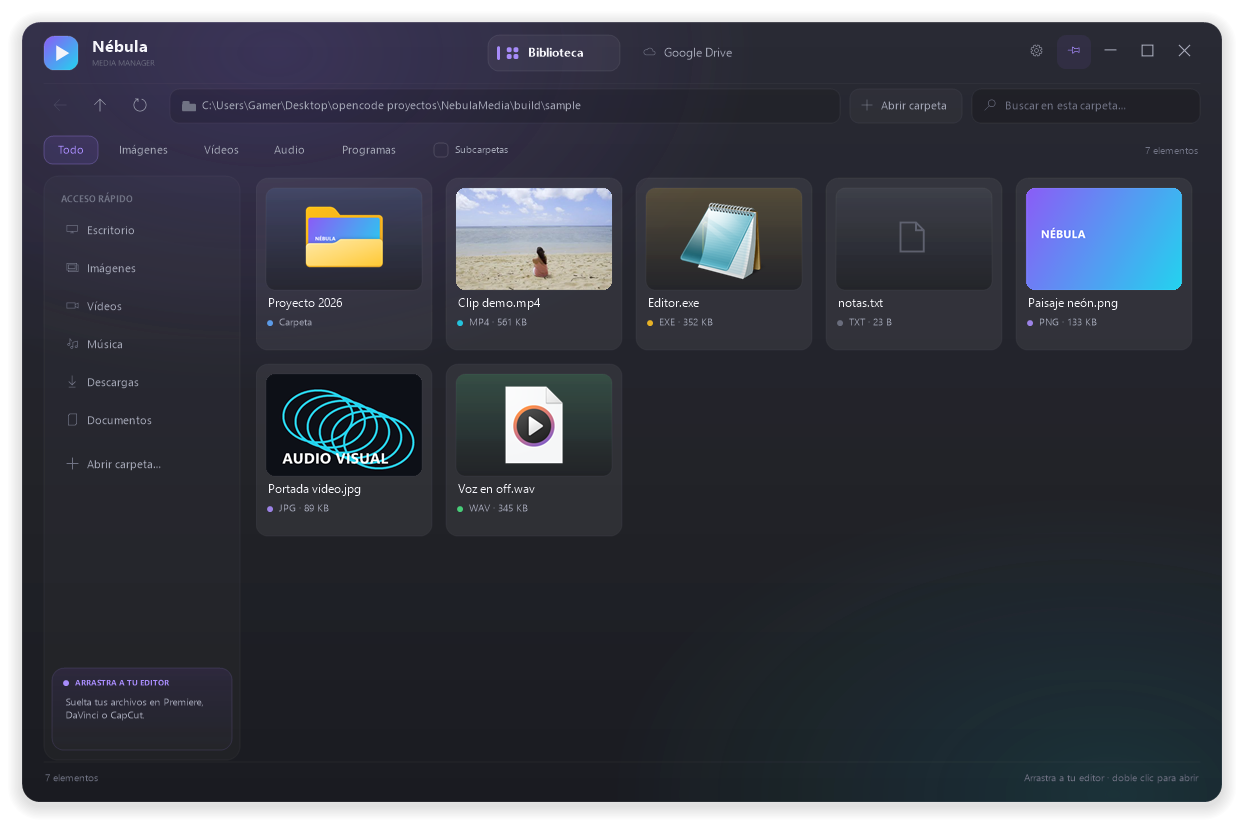
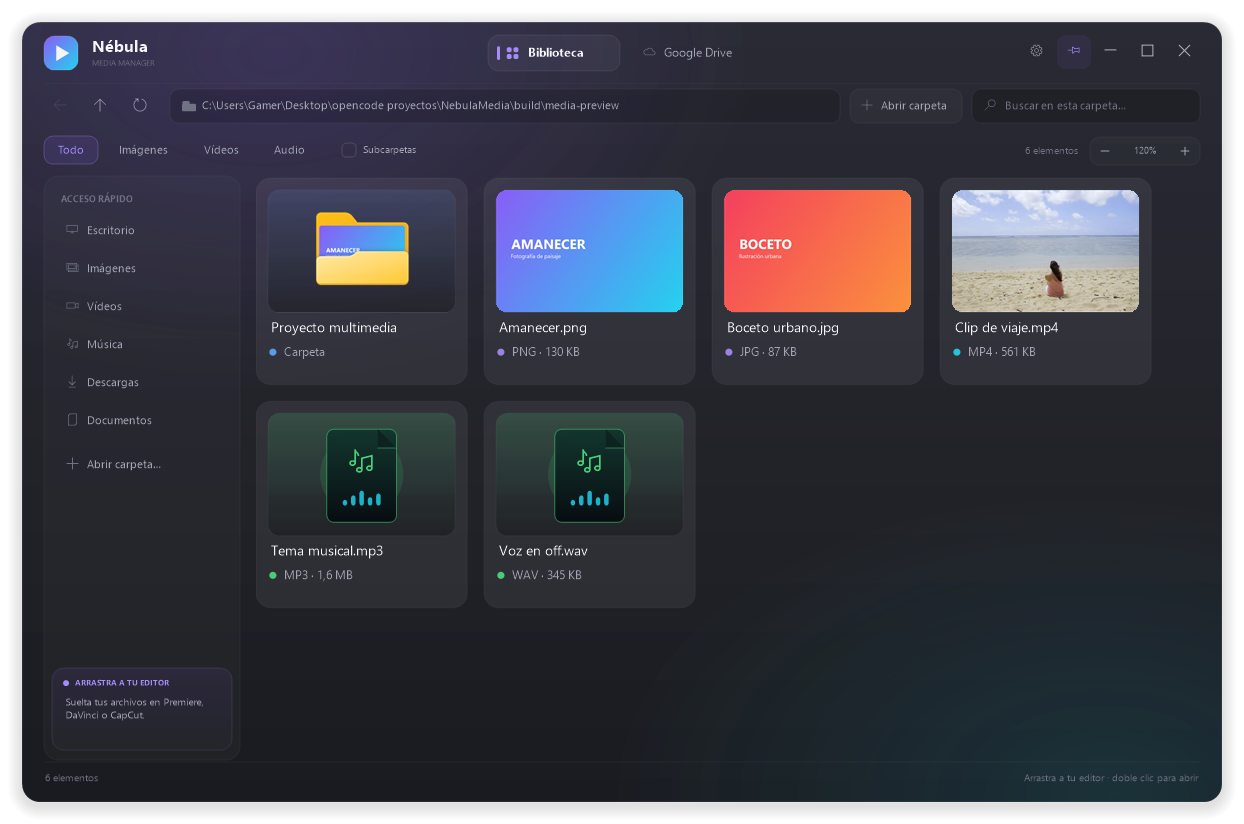
Biblioteca solo con audio, imagen y video

diff --git a/src/app.cpp b/src/app.cpp
@@ -12,7 +12,7 @@ namespace nebula {
 
 namespace {
 
-constexpr int kFilterCount = 5;
+constexpr int kFilterCount = 4;
 constexpr int kMenuItemOpen = 40001;
 
 constexpr int kMenuItemReveal = 40002;
@@ -24,7 +24,7 @@ constexpr int kMenuItemRefresh = 40007;
 constexpr int kMenuItemEditAudio = 40008;
 constexpr int kMenuItemPlay = 40009;
 
-constexpr int kFilterWidths[kFilterCount] = {54, 80, 64, 60, 86};
+constexpr int kFilterWidths[kFilterCount] = {54, 80, 64, 60};
 
 bool InRect(const Gdiplus::RectF& r, float x, float y) {
     return x >= r.X && y >= r.Y && x < r.GetRight() && y < r.GetBottom();
@@ -81,7 +81,6 @@ bool MatchesItem(const MediaItem& item, Filter filter, const std::wstring& query
         case Filter::Images: return item.kind == ItemKind::Image;
         case Filter::Videos: return item.kind == ItemKind::Video;
         case Filter::Audio: return item.kind == ItemKind::Audio;
-        case Filter::Programs: return item.kind == ItemKind::Program;
         case Filter::All:
         default: return true;
     }
@@ -776,6 +775,7 @@ void App::ScanFolder(ViewState& view) {
         item.size = (static_cast<uint64_t>(data.nFileSizeHigh) << 32) | data.nFileSizeLow;
         item.ext = item.isDir ? L"" : ExtensionOf(item.name);
         item.kind = KindForFile(item.name, item.isDir);
+        if (!item.isDir && item.kind == ItemKind::Other) continue;
         item.cloudOnly = !item.isDir && IsCloudPlaceholder(data.dwFileAttributes);
         view.items.push_back(std::move(item));
 
@@ -852,12 +852,16 @@ void App::RunDeepSearch(ViewState& view) {
                             data.nFileSizeLow;
                 item.ext = isDir ? L"" : ExtensionOf(name);
                 item.kind = KindForFile(name, isDir);
-                item.cloudOnly = !isDir && IsCloudPlaceholder(data.dwFileAttributes);
-                item.context = RelativeTo(dir, view.path);
-                results.push_back(std::move(item));
-                if (static_cast<int>(results.size()) >= maxResults) {
-                    limited = true;
-                    break;
+                if (!isDir && item.kind == ItemKind::Other) {
+                    // Ignore executables, games, documents and unknown files.
+                } else {
+                    item.cloudOnly = !isDir && IsCloudPlaceholder(data.dwFileAttributes);
+                    item.context = RelativeTo(dir, view.path);
+                    results.push_back(std::move(item));
+                    if (static_cast<int>(results.size()) >= maxResults) {
+                        limited = true;
+                        break;
+                    }
                 }
             }
 
@@ -1934,8 +1938,7 @@ void App::OnClickZone(int id) {
         case zid::FilterAll:
         case zid::FilterImages:
         case zid::FilterVideos:
-        case zid::FilterAudio:
-        case zid::FilterPrograms: {
+        case zid::FilterAudio: {
             ViewState& view = View();
             view.filter = static_cast<Filter>(id - zid::FilterAll);
             view.scroll = 0;

diff --git a/src/common.h b/src/common.h
@@ -57,7 +57,7 @@ bool LaunchSelfUpdate(const std::wstring& updatePath, std::wstring& error);
 
 // ---------------------------------------------------------------- data model
 
-enum class Filter { All = 0, Images, Videos, Audio, Programs, Count };
+enum class Filter { All = 0, Images, Videos, Audio, Count };
 enum class Tab { Library = 0, Drive = 1 };
 enum class ItemKind { Folder, Image, Video, Audio, Program, Other };
 
@@ -273,7 +273,7 @@ enum : int {
     Min, Max, Close, Pin, Settings,
     TabLibrary, TabDrive,
     Back, Up, Refresh, OpenFolder, Search, ClearSearch,
-    FilterAll, FilterImages, FilterVideos, FilterAudio, FilterPrograms,
+    FilterAll, FilterImages, FilterVideos, FilterAudio,
     Recursive,
     DriveDetect, DrivePick, DriveWeb,
     DriveChange, DriveRefresh,

diff --git a/src/util.cpp b/src/util.cpp
@@ -165,13 +165,10 @@ ItemKind KindForFile(const std::wstring& path, bool isDir) {
     static const std::unordered_set<std::wstring> audios = {
         L".mp3", L".wav", L".flac", L".aac", L".ogg", L".m4a", L".wma", L".aiff",
         L".aif", L".opus", L".mid", L".midi", L".amr", L".ape"};
-    static const std::unordered_set<std::wstring> programs = {
-        L".exe", L".lnk", L".bat", L".cmd", L".msi", L".appref-ms", L".com"};
 
     if (images.count(ext)) return ItemKind::Image;
     if (videos.count(ext)) return ItemKind::Video;
     if (audios.count(ext)) return ItemKind::Audio;
-    if (programs.count(ext)) return ItemKind::Program;
     return ItemKind::Other;
 }
 

diff --git a/src/paint.cpp b/src/paint.cpp
@@ -258,8 +258,7 @@ std::wstring RateText(int rate) {
     return buffer;
 }
 
-const wchar_t* kFilterNames[5] = {L"Todo", L"Imágenes", L"Vídeos", L"Audio",
-                                  L"Programas"};
+const wchar_t* kFilterNames[4] = {L"Todo", L"Imágenes", L"Vídeos", L"Audio"};
 
 }  // namespace
 
@@ -561,7 +560,7 @@ void App::DrawToolbar(Graphics& g, const Layout& layout) {
 
 void App::DrawFilters(Graphics& g, const Layout& layout) {
     ViewState& view = View();
-    for (int i = 0; i < 5; ++i) {
+    for (int i = 0; i < 4; ++i) {
         const int id = zid::FilterAll + i;
         const RectF* rect = ZoneRect(layout, id);
         if (!rect) continue;

diff --git a/README.md b/README.md
@@ -1,6 +1,6 @@
 # Nébula Media
 
-Gestor nativo de vídeos, imágenes, audio y programas para Windows, con buscador, pestaña de Google Drive, arrastrar y soltar hacia otros programas, ventana siempre visible con fondo translúcido, actualizaciones automáticas y un editor de audio básico.
+Gestor nativo de vídeos, imágenes y audio para Windows, con buscador, pestaña de Google Drive, arrastrar y soltar hacia otros programas, ventana siempre visible con fondo translúcido, actualizaciones automáticas y un editor de audio básico.
 
 Repositorio: <https://github.com/joseestebanmarinrincones-dot/nebula-media>
 
@@ -16,8 +16,9 @@ Repositorio: <https://github.com/joseestebanmarinrincones-dot/nebula-media>
 
 ## Características
 
-- Biblioteca con miniaturas reales (Shell thumbnail provider) para imágenes, vídeos, audio, programas y carpetas.
-- Filtros Todo / Imágenes / Vídeos / Audio / Programas.
+- Biblioteca con miniaturas reales (Shell thumbnail provider) para imágenes, vídeos, audio y carpetas.
+- Solo se detectan extensiones de audio, imagen y vídeo. Ejecutables, juegos, documentos y archivos desconocidos se ignoran.
+- Filtros Todo / Imágenes / Vídeos / Audio.
 - Zoom de tarjetas configurable (80–160%) con controles en la barra de filtros, Ctrl+rueda y Ctrl +/−/0. Se guarda en la configuración.
 - Búsqueda instantánea en la carpeta actual y búsqueda recursiva ("Subcarpetas") con límites de seguridad.
 - Drag out real con `CF_HDROP`: arrastra una o varias selecciones a Premiere, DaVinci Resolve, CapCut, After Effects, Explorer, etc. Durante el arrastre la ventana se aparta, se vuelve translúcida y deja pasar el puntero para poder soltar sobre un editor que estaba debajo.
